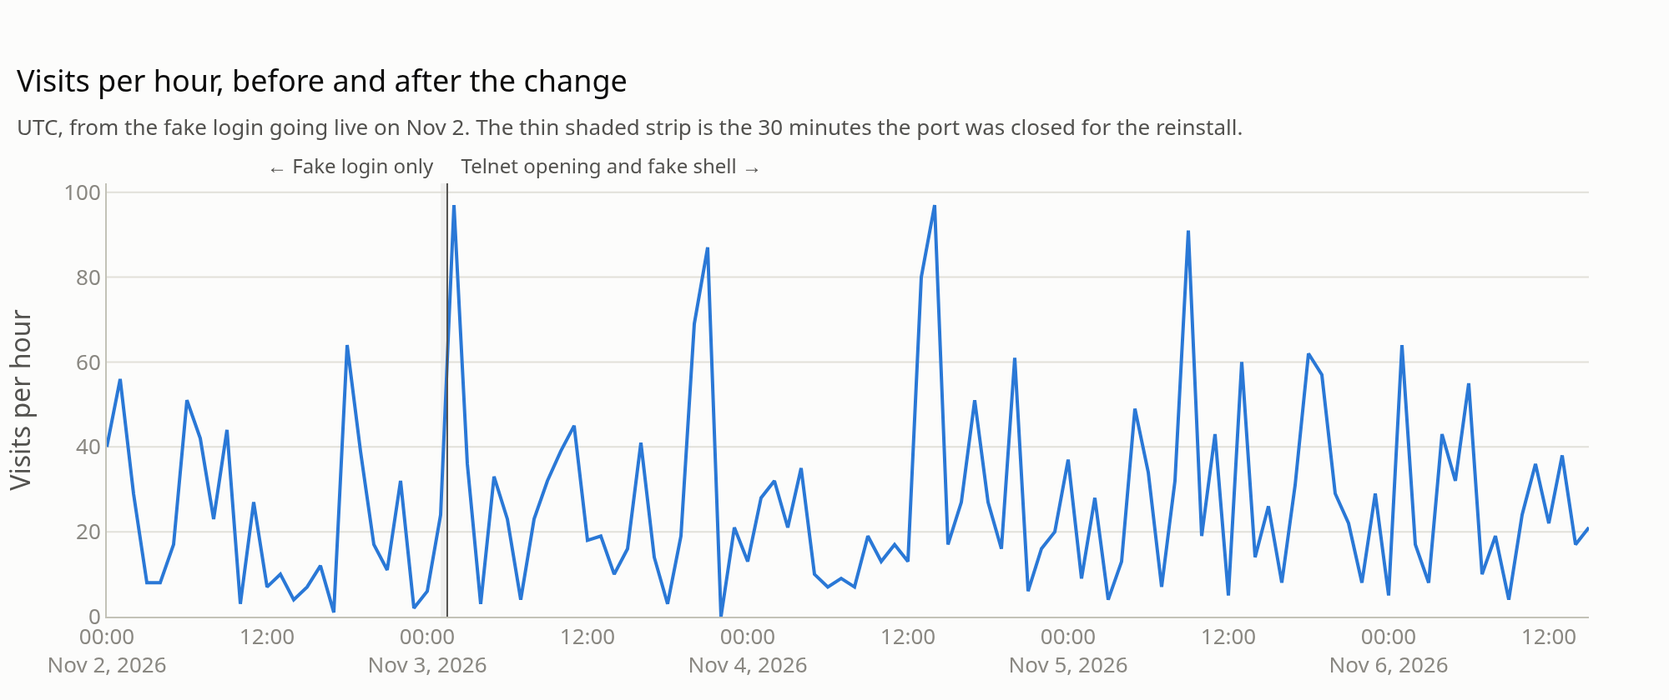
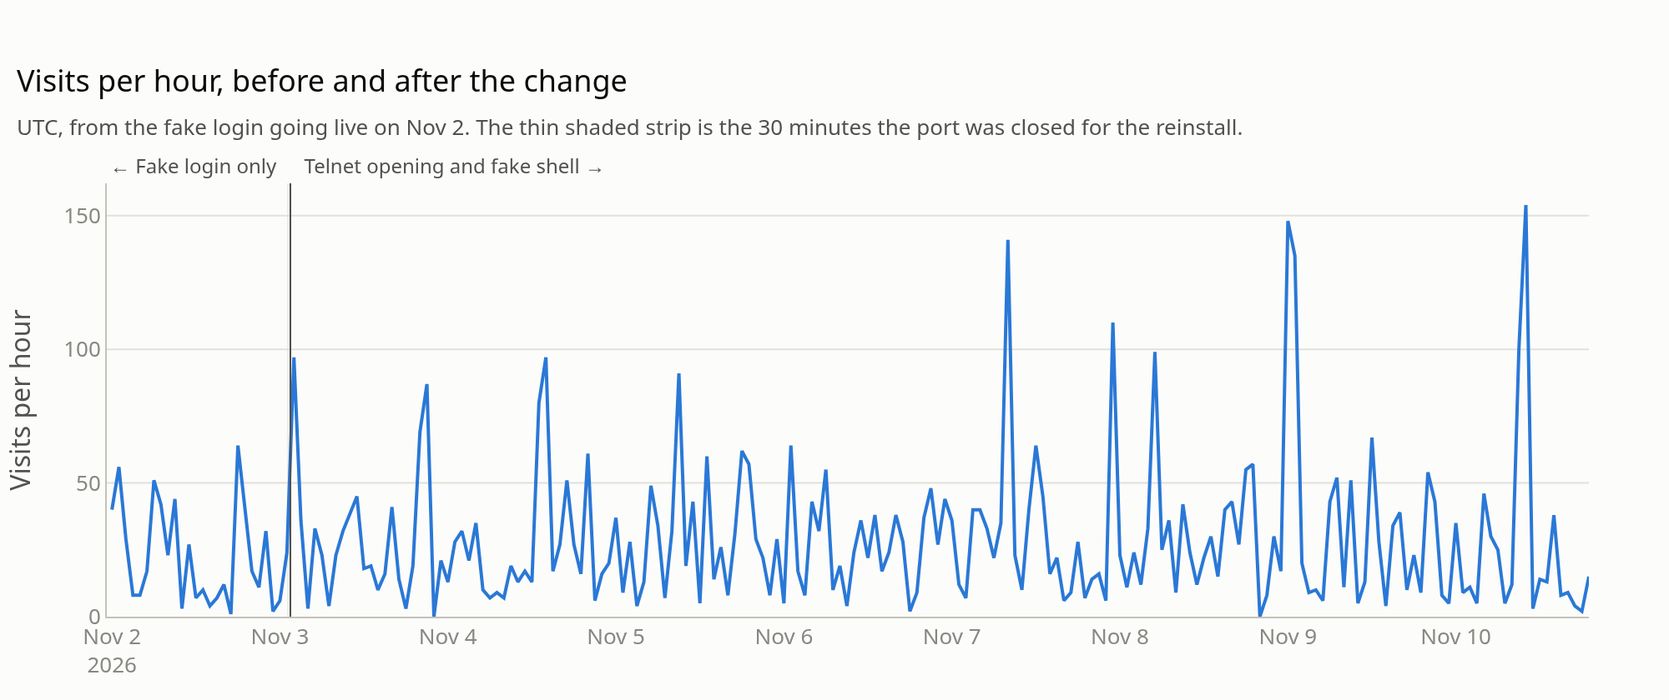
Update the honeypot page to the full Nov 3–10 window
Brings the honeypot page and the home page's honeypot card up to the
report's full window (186 hours, 5,527 connections, 839 logins, 23
download attempts), with new charts, and folds the Nov 7–10 update
section into the page. The .two-col table style only that section used
is removed.

The threat-intel bullets and defender step 5 now match the sensor
repo's report. They lead with the 330 IPs that got into the shell:
at least 316 (96%) had been reported before they arrived. All 12
download IPs had been reported before, which replaces "3 of the 7 IPs
that tried a download had no reports until after", a claim the later
lookups reversed.

diff --git a/site/honeypot/index.html b/site/honeypot/index.html
@@ -5,7 +5,7 @@
 <meta name="viewport" content="width=device-width, initial-scale=1">
 <meta name="color-scheme" content="dark light">
 <title>Rust Telnet Honeypot · Timothy Fletcher</title>
-<meta name="description" content="A telnet honeypot in Rust that recorded what IoT botnets do after logging in: 2,450 connections, 481 logins, 13 malware download attempts and zero outbound connections.">
+<meta name="description" content="A telnet honeypot in Rust that recorded what IoT botnets do after logging in: 5,527 connections, 839 logins, 23 malware download attempts and zero outbound connections.">
 <link rel="canonical" href="https://timfletcher.tech/honeypot/">
 <link rel="icon" href="/favicon.svg" type="image/svg+xml">
 <link rel="preload" href="/fonts/inter-4.001-latin.woff2" as="font" type="font/woff2" crossorigin>
@@ -33,7 +33,7 @@
     <div class="back"><a href="/#projects">← All projects</a></div>
     <div class="prompt">$ cd ~/projects/rust-telnet-honeypot</div>
     <h1>Rust Telnet Honeypot</h1>
-    <p class="role"><strong>What IoT botnets do after they log in</strong> · 86 hours on Google Cloud · Nov 3–6, 2026</p>
+    <p class="role"><strong>What IoT botnets do after they log in</strong> · 186 hours on Google Cloud · Nov 3–10, 2026</p>
     <div class="tags">
       <span class="tag">Rust</span>
       <span class="tag">Google Cloud</span>
@@ -56,16 +56,16 @@
     <picture>
       <source srcset="/honeypot/1-funnel-light.png" media="(prefers-color-scheme: light)">
       <img src="/honeypot/1-funnel-dark.png" width="2000" height="840" fetchpriority="high"
-           alt="Funnel chart, Nov 3–6: 2,450 connections; 2,132 sent a login (87%); 481 got into the shell (19.6%); 414 sent a command (16.9%); 165 ran a real-shell check (6.7%); 13 reached a download (0.5%).">
+           alt="Funnel chart, Nov 3–10: 5,527 connections; 4,805 sent a login (86.9%); 839 got into the shell (15.2%); 706 sent a command (12.8%); 339 ran a real-shell check (6.1%); 23 reached a download (0.4%).">
     </picture>
-    <figcaption>Of 2,450 connections, 481 got into the fake shell and 13 reached a download. The last two steps overlap rather than nest: 4 of the 13 downloads came after a check.</figcaption>
+    <figcaption>Of 5,527 connections, 839 got into the fake shell and 23 reached a download. The last two steps overlap rather than nest: 4 of the 23 downloads came after a check.</figcaption>
   </figure>
 
   <section id="summary">
     <div class="sec-head"><span class="idx">01</span><h2>In short</h2></div>
     <ul class="prose">
-      <li><b>What I built:</b> a medium-interaction telnet honeypot in Rust, run on Google Cloud for 86 hours. 18 common factory-default logins get into a shell that's entirely fake. Every reply is fixed text compiled into the program, and nothing a visitor sends is ever run or fetched.</li>
-      <li><b>What I found:</b> 481 of 2,450 connections logged in and sent 1,772 commands, including 13 attempts to download and run malware. None of them produced an outbound connection. Most bots followed the same playbook, mapped below to MITRE ATT&amp;CK.</li>
+      <li><b>What I built:</b> a medium-interaction telnet honeypot in Rust, run on Google Cloud for 186 hours. 18 common factory-default logins get into a shell that's entirely fake. Every reply is fixed text compiled into the program, and nothing a visitor sends is ever run or fetched.</li>
+      <li><b>What I found:</b> 839 of 5,527 connections logged in and sent 3,784 commands, including 23 attempts to download and run malware. None of them produced an outbound connection. Most bots followed the same playbook, mapped below to MITRE ATT&amp;CK.</li>
       <li><b>What it shows:</b> a fixed-reply shell is safe but easy to spot. Almost every bot that checked for its own marker word left before the payload stage. Silent visitors fell from 82% to 12% after the server began opening with telnet negotiation. The IP address stayed the same, but almost none of the earlier visitors came back and the baseline is one day, so that cause isn't proven.</li>
     </ul>
   </section>
@@ -78,7 +78,7 @@
         <img src="/honeypot/4-playbook-dark.png" width="2000" height="1200" loading="lazy"
              alt="Bar chart of sessions per playbook step, in attack order, with ATT&amp;CK IDs. The same numbers are in the table below.">
       </picture>
-      <figcaption>Sessions that took each step. Most sessions took several. 165 of the 414 sessions with commands ran a check that only a real shell passes, and 161 of them stopped there.</figcaption>
+      <figcaption>Sessions that took each step. Most sessions took several. 339 of the 706 sessions with commands ran a check that only a real shell passes, and 335 of them stopped there.</figcaption>
     </figure>
     <details class="steps">
       <summary>The playbook as a table</summary>
@@ -86,18 +86,18 @@
         <table>
           <thead><tr><th>Step</th><th>MITRE ATT&amp;CK</th><th class="num">Sessions</th><th class="num">IPs</th></tr></thead>
           <tbody>
-            <tr><td>Log in with factory defaults</td><td><a href="https://attack.mitre.org/techniques/T1110/001/" target="_blank" rel="noopener">T1110.001</a>, <a href="https://attack.mitre.org/techniques/T1078/001/" target="_blank" rel="noopener">T1078.001</a></td><td class="num">481</td><td class="num">152</td></tr>
-            <tr><td>Break out of a router's limited menu</td><td><a href="https://attack.mitre.org/techniques/T1059/008/" target="_blank" rel="noopener">T1059.008</a>, <a href="https://attack.mitre.org/techniques/T1059/004/" target="_blank" rel="noopener">T1059.004</a></td><td class="num">299</td><td class="num">92</td></tr>
-            <tr><td>Try a router CLI</td><td><a href="https://attack.mitre.org/techniques/T1059/008/" target="_blank" rel="noopener">T1059.008</a></td><td class="num">80</td><td class="num">25</td></tr>
-            <tr><td>Inject a shell into a ping tool</td><td><a href="https://attack.mitre.org/techniques/T1059/004/" target="_blank" rel="noopener">T1059.004</a></td><td class="num">64</td><td class="num">48</td></tr>
-            <tr><td>Look around</td><td><a href="https://attack.mitre.org/techniques/T1082/" target="_blank" rel="noopener">T1082</a>, <a href="https://attack.mitre.org/techniques/T1087/001/" target="_blank" rel="noopener">T1087.001</a>, <a href="https://attack.mitre.org/techniques/T1033/" target="_blank" rel="noopener">T1033</a>, <a href="https://attack.mitre.org/techniques/T1083/" target="_blank" rel="noopener">T1083</a></td><td class="num">116</td><td class="num">50</td></tr>
-            <tr><td>Find a writable folder, then check with a hex echo</td><td><a href="https://attack.mitre.org/techniques/T1083/" target="_blank" rel="noopener">T1083</a></td><td class="num">80</td><td class="num">25</td></tr>
-            <tr><td>Check for a real BusyBox</td><td><a href="https://attack.mitre.org/techniques/T1497/001/" target="_blank" rel="noopener">T1497.001</a></td><td class="num">29</td><td class="num">11</td></tr>
-            <tr><td>Check that echo works</td><td><a href="https://attack.mitre.org/techniques/T1497/001/" target="_blank" rel="noopener">T1497.001</a></td><td class="num">9</td><td class="num">9</td></tr>
-            <tr><td>The <code>SHELL_TEST</code> check</td><td><a href="https://attack.mitre.org/techniques/T1497/001/" target="_blank" rel="noopener">T1497.001</a></td><td class="num">47</td><td class="num">3</td></tr>
-            <tr><td>Download and run</td><td><a href="https://attack.mitre.org/techniques/T1105/" target="_blank" rel="noopener">T1105</a>, <a href="https://attack.mitre.org/techniques/T1222/002/" target="_blank" rel="noopener">T1222.002</a>, <a href="https://attack.mitre.org/techniques/T1059/004/" target="_blank" rel="noopener">T1059.004</a></td><td class="num">13</td><td class="num">7</td></tr>
-            <tr><td>Remove rival bots</td><td><a href="https://attack.mitre.org/techniques/T1489/" target="_blank" rel="noopener">T1489</a></td><td class="num">1</td><td class="num">1</td></tr>
-            <tr><td>Clean up</td><td><a href="https://attack.mitre.org/techniques/T1070/004/" target="_blank" rel="noopener">T1070.004</a></td><td class="num">1</td><td class="num">1</td></tr>
+            <tr><td>Log in with factory defaults</td><td><a href="https://attack.mitre.org/techniques/T1110/001/" target="_blank" rel="noopener">T1110.001</a>, <a href="https://attack.mitre.org/techniques/T1078/001/" target="_blank" rel="noopener">T1078.001</a></td><td class="num">839</td><td class="num">330</td></tr>
+            <tr><td>Break out of a router's limited menu</td><td><a href="https://attack.mitre.org/techniques/T1059/008/" target="_blank" rel="noopener">T1059.008</a>, <a href="https://attack.mitre.org/techniques/T1059/004/" target="_blank" rel="noopener">T1059.004</a></td><td class="num">576</td><td class="num">211</td></tr>
+            <tr><td>Try a router CLI</td><td><a href="https://attack.mitre.org/techniques/T1059/008/" target="_blank" rel="noopener">T1059.008</a></td><td class="num">196</td><td class="num">58</td></tr>
+            <tr><td>Inject a shell into a ping tool</td><td><a href="https://attack.mitre.org/techniques/T1059/004/" target="_blank" rel="noopener">T1059.004</a></td><td class="num">137</td><td class="num">117</td></tr>
+            <tr><td>Look around</td><td><a href="https://attack.mitre.org/techniques/T1082/" target="_blank" rel="noopener">T1082</a>, <a href="https://attack.mitre.org/techniques/T1087/001/" target="_blank" rel="noopener">T1087.001</a>, <a href="https://attack.mitre.org/techniques/T1033/" target="_blank" rel="noopener">T1033</a>, <a href="https://attack.mitre.org/techniques/T1083/" target="_blank" rel="noopener">T1083</a></td><td class="num">191</td><td class="num">117</td></tr>
+            <tr><td>Find a writable folder, then check with a hex echo</td><td><a href="https://attack.mitre.org/techniques/T1083/" target="_blank" rel="noopener">T1083</a></td><td class="num">198</td><td class="num">60</td></tr>
+            <tr><td>Check for a real BusyBox</td><td><a href="https://attack.mitre.org/techniques/T1497/001/" target="_blank" rel="noopener">T1497.001</a></td><td class="num">73</td><td class="num">24</td></tr>
+            <tr><td>Check that echo works</td><td><a href="https://attack.mitre.org/techniques/T1497/001/" target="_blank" rel="noopener">T1497.001</a></td><td class="num">12</td><td class="num">12</td></tr>
+            <tr><td>The <code>SHELL_TEST</code> check</td><td><a href="https://attack.mitre.org/techniques/T1497/001/" target="_blank" rel="noopener">T1497.001</a></td><td class="num">58</td><td class="num">3</td></tr>
+            <tr><td>Download and run</td><td><a href="https://attack.mitre.org/techniques/T1105/" target="_blank" rel="noopener">T1105</a>, <a href="https://attack.mitre.org/techniques/T1222/002/" target="_blank" rel="noopener">T1222.002</a>, <a href="https://attack.mitre.org/techniques/T1059/004/" target="_blank" rel="noopener">T1059.004</a></td><td class="num">23</td><td class="num">12</td></tr>
+            <tr><td>Remove rival bots</td><td><a href="https://attack.mitre.org/techniques/T1489/" target="_blank" rel="noopener">T1489</a></td><td class="num">2</td><td class="num">2</td></tr>
+            <tr><td>Clean up</td><td><a href="https://attack.mitre.org/techniques/T1070/004/" target="_blank" rel="noopener">T1070.004</a></td><td class="num">6</td><td class="num">5</td></tr>
           </tbody>
         </table>
       </div>
@@ -107,17 +107,18 @@
       <picture>
         <source srcset="/honeypot/6-sessions-ended-light.png" media="(prefers-color-scheme: light)">
         <img src="/honeypot/6-sessions-ended-dark.png" width="2000" height="460" loading="lazy"
-             alt="Segmented bar: of 481 shell sessions, 289 (60%) hung up and 192 (40%) hit the 30-second limit.">
+             alt="Segmented bar: of 839 shell sessions, 531 (63%) hung up and 308 (37%) hit the 30-second limit.">
       </picture>
-      <figcaption>None of the 481 sessions typed <code>exit</code>. The 192 that hit the limit held a bot for the full 30 seconds.</figcaption>
+      <figcaption>None of the 839 sessions typed <code>exit</code>. The 308 that hit the limit held a bot for the full 30 seconds.</figcaption>
     </figure>
   </section>
 
   <section id="threat-intel">
     <div class="sec-head"><span class="idx">03</span><h2>Were these IPs already known?</h2></div>
     <ul class="prose">
-      <li><b>Almost all were already reported.</b> On Nov 7, I checked all 478 IPs that visited from Nov 2 to Nov 6 against AbuseIPDB, sending only the addresses (Nov 2 was the day before the shell, when the honeypot only showed a login prompt). 472 had reports from the past year, at least 417 of them from before the honeypot first saw them, and the other 6 had none in the past year.</li>
-      <li><b>New attackers were reported fast.</b> 3 of the 7 IPs that tried a download had no reports until after they reached the honeypot. Within three days of their first report, they had 1,055 to 5,343 each.</li>
+      <li><b>Almost all were already reported.</b> On Nov 10 and Nov 11, I checked all 901 IPs that visited from Nov 2 to Nov 10 against AbuseIPDB, sending only the addresses (Nov 2 was the day before the shell, when the honeypot only showed a login prompt). Of the 330 that got into the fake shell, 328 (99%) had reports from the past year, and at least 316 (96%) had been reported before the honeypot first saw them. All 901 give the same shares: 891 (99%) had reports from the past year and at least 867 (96%) from before, and the other 10 had none in the past year. At least 48 of the 901 were research scanners such as Censys, Shadowserver and Shodan: none got into the shell, all had been reported before, and leaving them out moves none of these shares by as much as a point.</li>
+      <li><b>The download IPs had all been reported before.</b> All 12 IPs that tried a download had been reported before they arrived. For 5 of them, all 100 reports AbuseIPDB lists came after the honeypot saw them, so it took a second check, counting only the reports since a day before, to show there were older ones.</li>
+      <li><b>Most of my reports weren't the first.</b> Of the 170 IPs I reported to AbuseIPDB, someone else had reported 162 first: 158 shown by the reports AbuseIPDB lists, and 4 more by the same kind of second check. I was the first in the past year for 7. For the last one it can't be told: mine wasn't among the newest 100 reports AbuseIPDB lists, and the second check counted more reports than the first lookup had, because more came in between.</li>
     </ul>
   </section>
 
@@ -125,16 +126,19 @@
     <div class="sec-head"><span class="idx">04</span><h2>What defenders should do</h2></div>
     <ol class="prose">
       <li><b>Block inbound telnet (23 and 2323) at the edge.</b> 87% of connections here sent a login, and an open telnet port was all any of these bots needed to start.</li>
-      <li><b>Change factory-default logins before a device is deployed.</b> 18 common defaults were enough for 481 logins from 152 IPs in 86 hours.</li>
-      <li><b>Put IoT devices on their own network segment, with outbound traffic restricted to what they need.</b> Every dropper here had to fetch its payload from a raw IP address, over ports 80, 443, 8081 and 9087 or over TFTP. An outbound allow-list would have stopped every download in this data, as this honeypot's own firewalls did.</li>
+      <li><b>Change factory-default logins before a device is deployed.</b> 18 common defaults were enough for 839 logins from 330 IPs in 186 hours.</li>
+      <li><b>Put IoT devices on their own network segment, with outbound traffic restricted to what they need.</b> Every dropper here had to fetch its payload from a raw IP address, over ports 80, 443, 8081 and 9087 or over TFTP or FTP. An outbound allow-list would have stopped every download in this data, as this honeypot's own firewalls did.</li>
       <li><b>Alert on new outbound connections from IoT devices.</b> These devices talk to a small, fixed set of servers, so a connection to an unfamiliar address is worth a look, especially within minutes of an inbound login. The full report has a KQL query that does this from firewall logs.</li>
-      <li><b>Use IP reputation blocklists, but as one layer, not the defense.</b> By Nov 7, 301 of the 478 IPs (63%) scored 75 or above. On the day they arrived, fewer would have: at least 23 of those 301 had no reports until after they reached the honeypot. They include all 7 IPs behind the bots that kept coming back from one to three IPs, which score 100 now. A blocklist only knows yesterday's attackers, so it adds to steps 1 to 4 rather than replacing them.</li>
+      <li><b>Use IP reputation blocklists, but as one layer, not the defense.</b> At least 316 of the 330 IPs that got into the shell (96%) had been reported to AbuseIPDB before they reached the honeypot, so a reputation blocklist would likely have flagged most of them. A past report isn't the same as a high score on the day, though: the lookups give only each IP's score when it was checked, so what these IPs scored when they arrived can't be seen. By Nov 11, 551 of the 901 IPs (61%) scored 75 or above, and at least 2 of those, and as many as 6, had no reports until after they reached the honeypot. A blocklist only knows yesterday's attackers, so it adds to steps 1 to 4 rather than replacing them.</li>
     </ol>
+    <div class="prose">
+      <p><b>The detections were updated as the bots changed.</b> The report's BusyBox rule now looks for an upper-case letter anywhere in the applet word, so a random word that starts in lower case is caught, and its download rule now covers BusyBox's FTP client, <code>ftpget</code>, and scripts piped out with <code>-O-</code> at the end of a line. Both are tested against the real command lines, masked. One gap remains: a generically named script saved to a file isn't caught, because matching every script fetched from a bare IP would also flag internal installers.</p>
+    </div>
     <figure class="figure">
       <picture>
         <source srcset="/honeypot/5-usernames-light.png" media="(prefers-color-scheme: light)">
         <img src="/honeypot/5-usernames-dark.png" width="2000" height="920" loading="lazy"
-             alt="Bar chart of the usernames tried by the most IPs: root 151, admin 120, default 34, guest 32, support 24, telnetadmin 21, user 17, telecomadmin 16, administrator 12, hikvision 11.">
+             alt="Bar chart of the usernames tried by the most IPs: root 351, admin 261, default 84, guest 60, support 57, user 41, telnetadmin 40, super 37, telecomadmin 34, Alphanetworks 26.">
       </picture>
       <figcaption>The usernames bots tried most widely. Passwords aren't shown, and neither are names only one IP tried.</figcaption>
     </figure>
@@ -143,7 +147,7 @@
   <section id="telnet">
     <div class="sec-head"><span class="idx">05</span><h2>The telnet opening, and its caveat</h2></div>
     <div class="prose">
-      <p>Before the shell, the honeypot only showed a login prompt, and 82% of visits sent nothing at all. 241 of those silent visits came from 11 IPs with the same rhythm: connect, stay silent for about 8 seconds, hang up and try again. Real devices start telnet negotiation as soon as a client connects, so the shell release does the same. Afterwards, silent visits fell to 12%, and 81% of visits answered the negotiation.</p>
+      <p>Before the shell, the honeypot only showed a login prompt, and 82% of visits sent nothing at all. 241 of those silent visits came from 11 IPs with the same rhythm: connect, stay silent for about 8 seconds, hang up and try again. Real devices start telnet negotiation as soon as a client connects, so the shell release does the same. From Nov 3 to Nov 6, silent visits fell to 12%, and 81% of visits answered the negotiation. Through Nov 10, silent visits stayed between 8% and 14% each day.</p>
     </div>
     <figure class="figure">
       <picture>
@@ -159,39 +163,10 @@
       <picture>
         <source srcset="/honeypot/2-visits-per-hour-light.png" media="(prefers-color-scheme: light)">
         <img src="/honeypot/2-visits-per-hour-dark.png" width="2000" height="840" loading="lazy"
-             alt="Line chart of visits per hour from Nov 2 to Nov 6, with a line marking the change on Nov 3 at 01:29 UTC, when the telnet opening and fake shell went live.">
+             alt="Line chart of visits per hour from Nov 2 to Nov 10, with a line marking the change on Nov 3 at 01:29 UTC, when the telnet opening and fake shell went live.">
       </picture>
       <figcaption>Visits per hour, UTC. The vertical line is the change, when the telnet opening and fake shell went live.</figcaption>
     </figure>
-  </section>
-
-  <section id="update">
-    <div class="sec-head"><span class="idx">06</span><h2>Update: Nov 7–10</h2></div>
-    <div class="prose">
-      <p><b>Added Nov 10, 2026.</b> From right after the last visit above, Nov 6 15:34 UTC, to Nov 10 19:45 UTC (100 hours), on the same server with the same settings. Everything above still covers Nov 3–6 only.</p>
-    </div>
-    <div class="table-scroll steps-table two-col">
-      <table>
-        <thead><tr><th>Headline</th><th>Nov 7–10</th></tr></thead>
-        <tbody>
-          <tr><td>Connections</td><td>3,077 from 447 IP addresses</td></tr>
-          <tr><td>Logins into the fake shell</td><td>358 from 188 IP addresses</td></tr>
-          <tr><td>Commands</td><td>2,012, of which 107 were different</td></tr>
-          <tr><td>Download attempts</td><td>10 sessions from 6 IPs, naming 11 different addresses, 10 of them new</td></tr>
-          <tr><td>Campaigns never seen before</td><td>13 of 24, in 60 sessions from 14 IPs</td></tr>
-          <tr><td>Outbound connections made by the honeypot</td><td><b>0</b></td></tr>
-          <tr><td>Reported to AbuseIPDB</td><td>49 IPs on Nov 8 and 121 on Nov 10</td></tr>
-        </tbody>
-      </table>
-    </div>
-    <p class="table-note">A campaign is every shell session that sent exactly the same commands, with the probe's random tag removed.</p>
-    <ul class="prose">
-      <li><b>New campaigns.</b> One IP never seen before sent NUL-ended menu words (<code>enable\0</code>, <code>system\0</code>, <code>shell\0</code>) in 35 sessions on Nov 10, each held for the full 30 seconds. 12 sessions from 5 IPs ran the BusyBox check with a random eight-character word where earlier bots used a name such as <code>SORA</code>, and a new dropper, <code>telnet2.sh</code>, came from 3 IPs.</li>
-      <li><b>New download URLs, masked:</b> <code>hxxp://176[.]65[.]x[.]x/telnet2.sh</code>, <code>hxxp://160[.]187[.]x[.]x/all.sh</code>, <code>hxxp://37[.]221[.]x[.]x/all.sh</code>, <code>hxxp://102[.]220[.]x[.]x/curl.sh</code> and <code>hxxp://102[.]220[.]x[.]x/wget.sh</code>. With one server named only for TFTP or FTP, that's 10 new addresses on 5 new servers. 6 of the 10 download sessions also tried FTP (<code>busybox ftpget</code>), which no session did from Nov 3 to Nov 6.</li>
-      <li><b>Outbound: still 0.</b> The host firewall logged no blocked outbound connection and the cloud firewall's egress log had no hits, though bots sent 66 download addresses to the shell.</li>
-      <li><b>Detection fixes.</b> The report's BusyBox rule missed a random word that starts with a lower-case letter, and its download rule missed <code>ftpget</code> and scripts piped out with <code>-O-</code> at the end of the line. Both are fixed and now tested against the real command lines, masked.</li>
-      <li><b>AbuseIPDB.</b> On Nov 8, I reported the 49 IPs that got into the shell in the 24 hours before, and on Nov 10, 121 more that got in after that.</li>
-    </ul>
   </section>
 
   <section id="more">

diff --git a/site/index.html b/site/index.html
@@ -71,7 +71,7 @@
 
   <div class="metrics" aria-label="Project highlights">
     <div class="metric"><div class="num">1.24M</div><div class="lbl">attack attempts captured by my honeypots in 37 hours</div></div>
-    <div class="metric"><div class="num">0</div><div class="lbl">outbound connections from 481 bot logins on my Rust honeypot</div></div>
+    <div class="metric"><div class="num">0</div><div class="lbl">outbound connections from 839 bot logins on my Rust honeypot</div></div>
     <div class="metric"><div class="num">16</div><div class="lbl">open-source Sigma rules, one or more for every playbook step</div></div>
     <div class="metric"><div class="num">91%</div><div class="lbl">alert noise cut (65 alerts → 6 incidents)</div></div>
   </div>
@@ -85,7 +85,7 @@
         <h3>Rust Telnet Honeypot: What IoT Botnets Do After Login</h3>
         <p>A telnet honeypot in Rust on Google Cloud, with a fake shell that records what bots do after logging in and never runs anything they send.</p>
         <ul>
-          <li>Recorded <b>2,450 connections from 364 IPs</b> in 86 hours. 481 logins sent 1,772 commands, and 13 malware download attempts made <b>zero outbound connections</b>.</li>
+          <li>Recorded <b>5,527 connections from 790 IPs</b> in 186 hours. 839 logins sent 3,784 commands, and 23 malware download attempts made <b>zero outbound connections</b>.</li>
           <li>Mapped the post-login playbook to <b>MITRE ATT&amp;CK</b>: router-menu escapes, BusyBox checks, writable-folder probes and droppers for several CPU types.</li>
           <li>Each layer assumes the last one failed: fixed replies the compiler enforces, a noexec systemd sandbox, and outbound traffic denied at both the host and cloud firewalls.</li>
         </ul>

diff --git a/site/styles.css b/site/styles.css
@@ -263,9 +263,6 @@ header.hero.project { padding: 48px 0 32px; }
 .steps-table th { font-family: var(--mono); font-size: 12px; font-weight: 600; color: var(--muted); text-transform: uppercase; letter-spacing: .04em; }
 .steps-table code { font-family: var(--mono); font-size: .9em; }
 .steps-table tr.extra td { background: var(--bg-2); }
-/* A two-column table fits a phone screen, so it doesn't need the wide tables' minimum width. */
-.steps-table.two-col { max-width: 720px; }
-.steps-table.two-col table { min-width: 0; }
 .lvl { font-family: var(--mono); font-size: 12px; color: var(--muted); white-space: nowrap; }
 .lvl.high { color: var(--accent-2); }
 .lvl.crit { color: var(--warn); font-weight: 600; }
